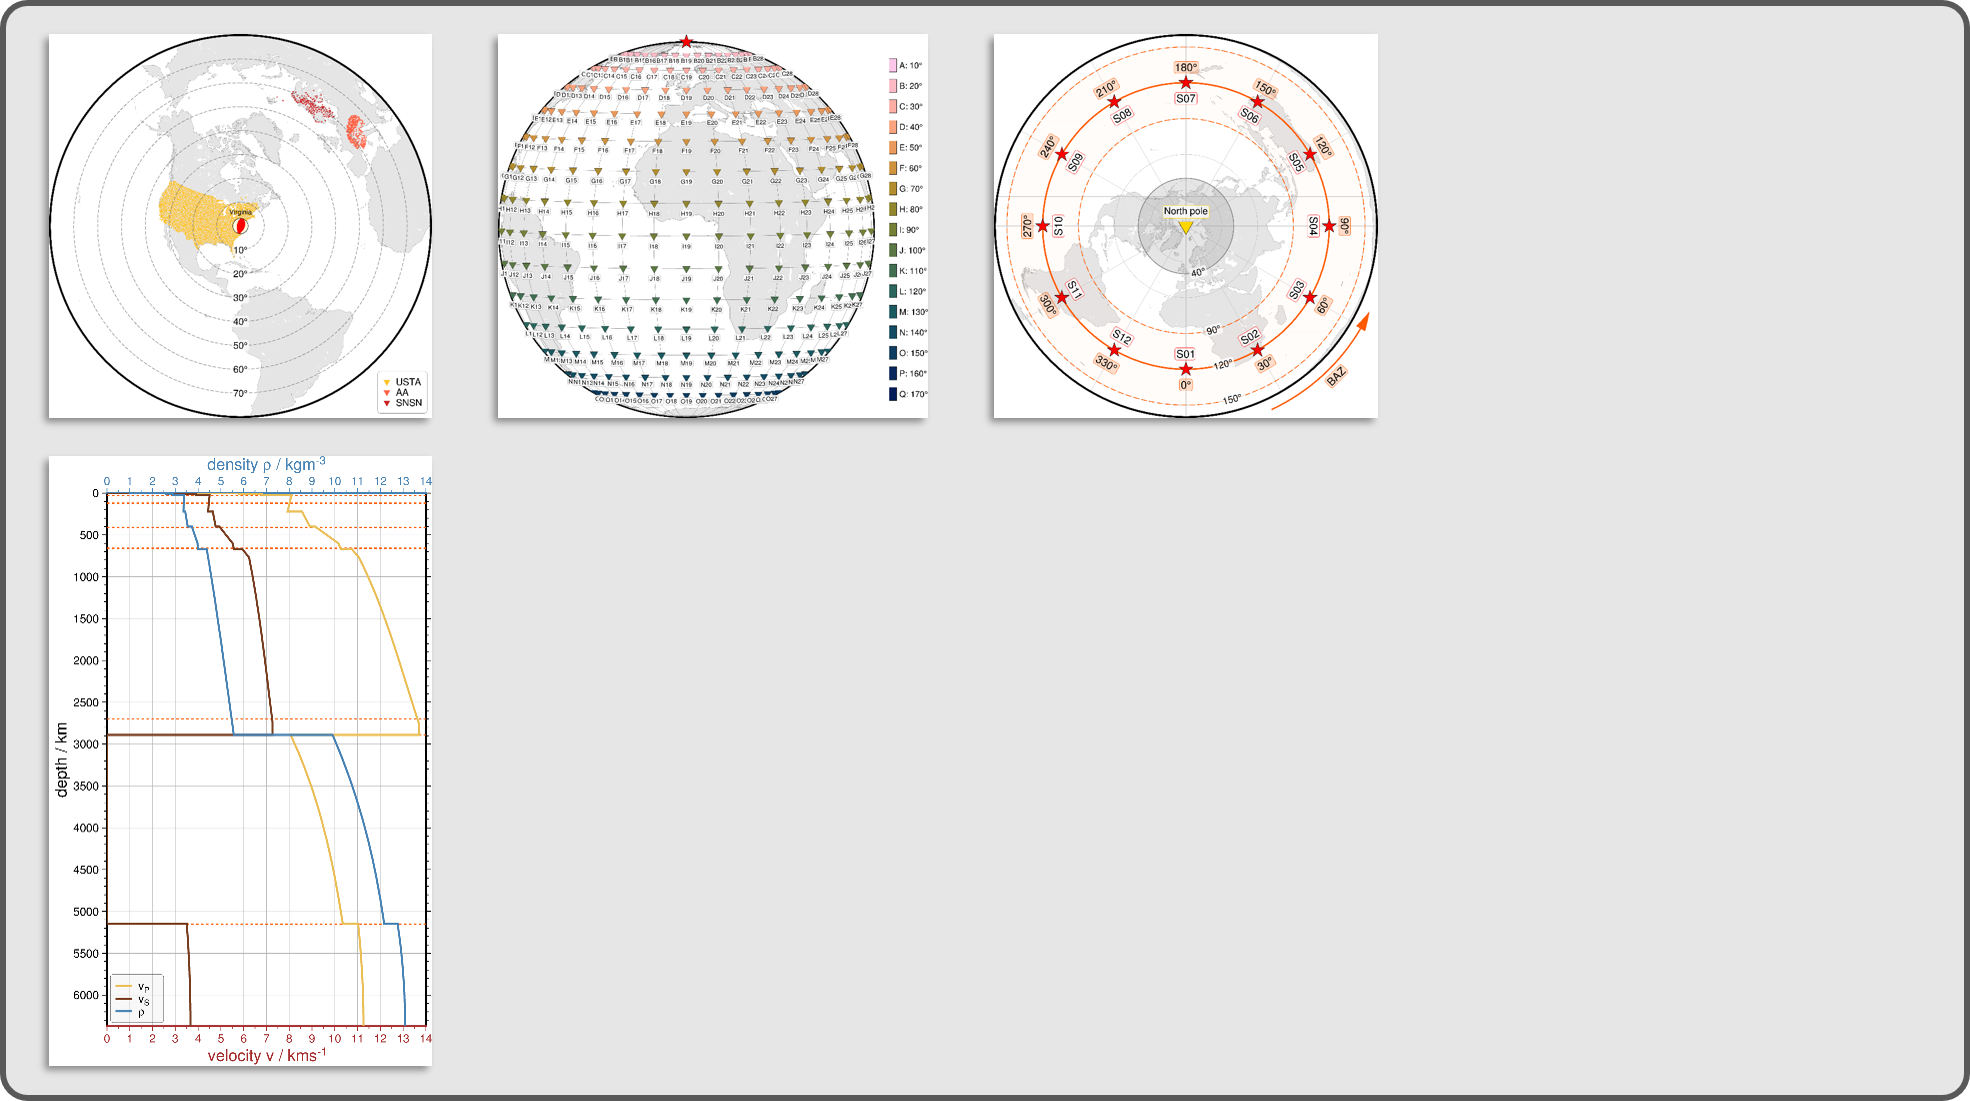
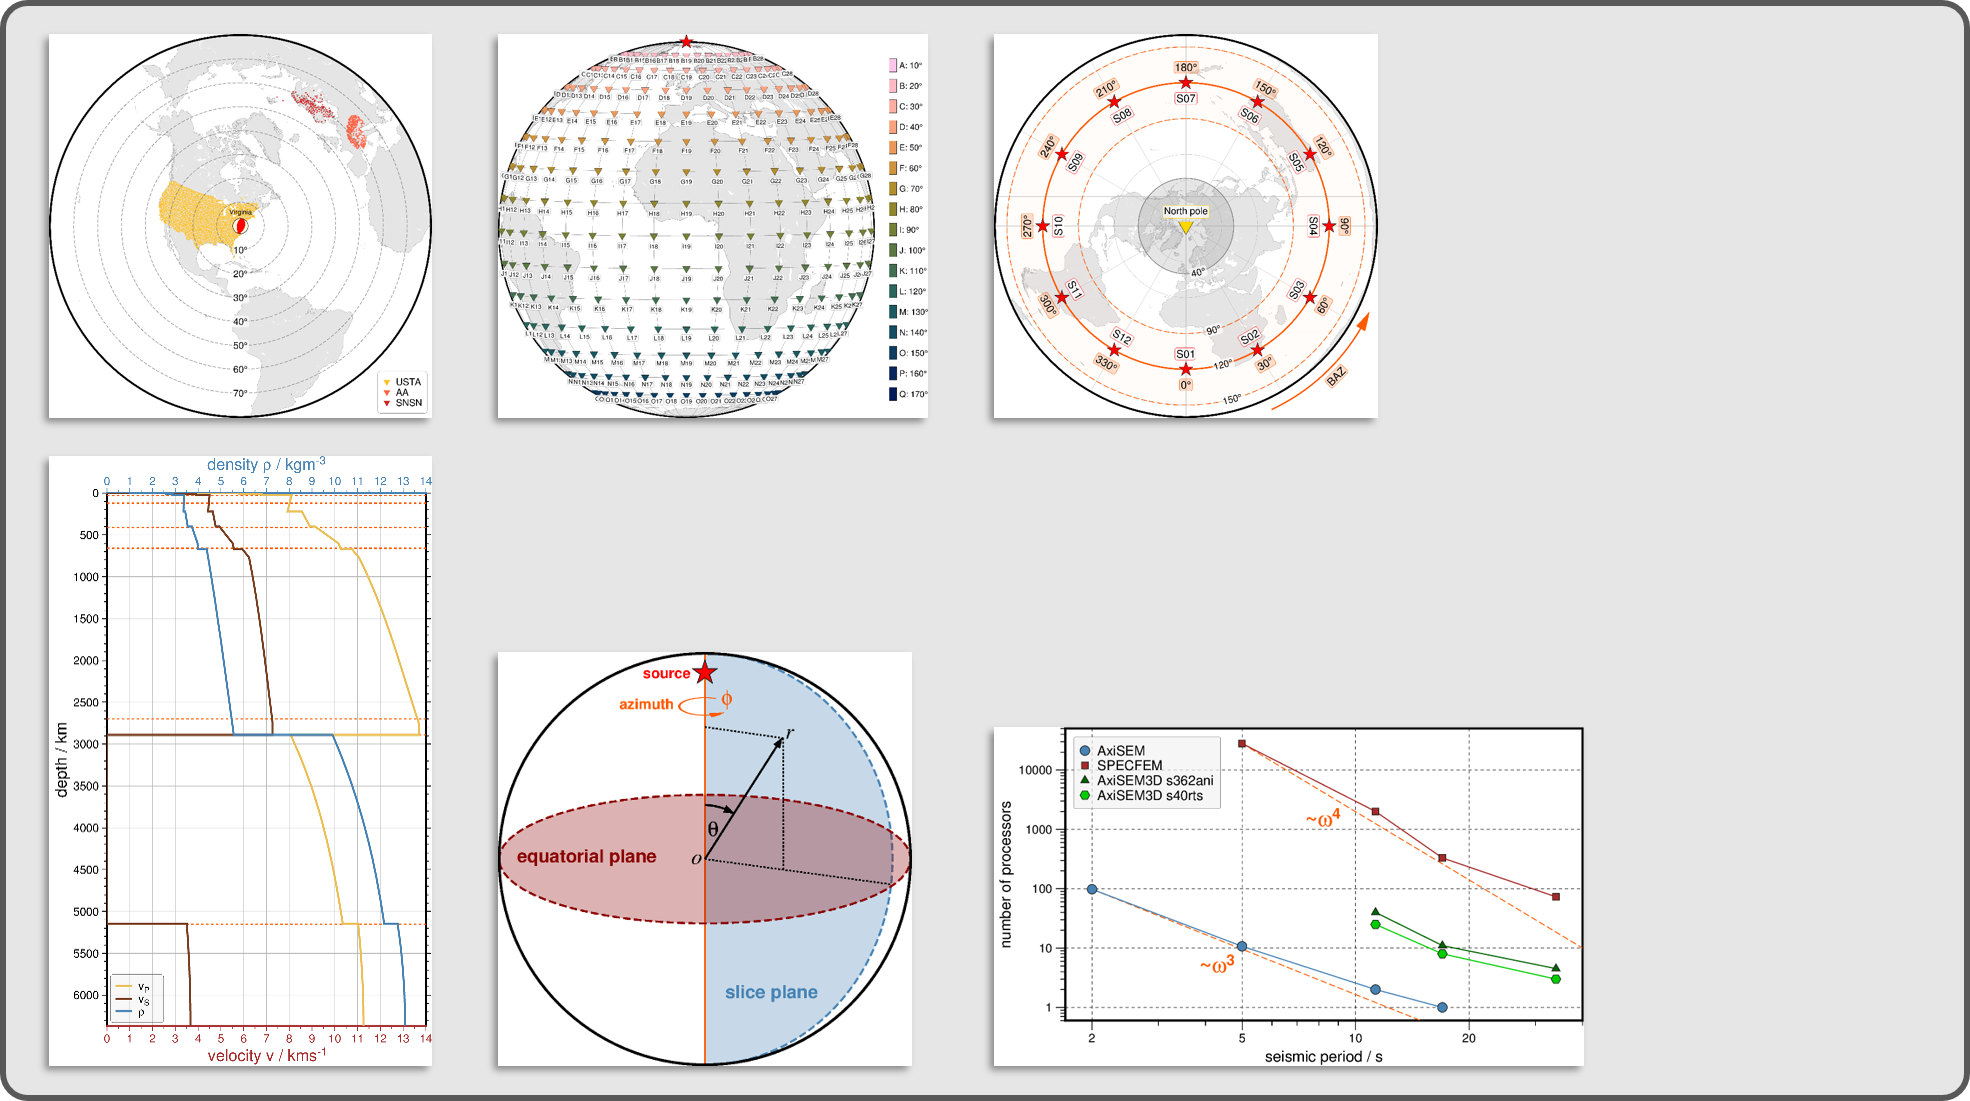
010_axisem: Add first version of figs 1 and 16 from Leng et al. (2016) (#72)

Changed region(s): [[0.4954, 0.6485, 0.8051, 0.9882], [0.2477, 0.5867, 0.4645, 0.9882]]

diff --git a/010_axisem/05_plots_axisem3d_LND2016/axisem3d_LND2016_fig16.py b/010_axisem/05_plots_axisem3d_LND2016/axisem3d_LND2016_fig16.py
@@ -1,0 +1,115 @@
+# #############################################################################
+# Reproduce Figure 16 of
+# Leng K., Nissen-Meyer T., van Driel M. (2016). Efficient global wave propagation
+# adapted to 3-D structural complexity: a pseudospectral/spectral-element approach.
+# Geophysical Journal International, 207(3), 1700–1721.
+# https://doi.org/10.1093/gji/ggw363.
+# -----------------------------------------------------------------------------
+# History
+# - Created: 2025/05/07
+# -----------------------------------------------------------------------------
+# Versions
+# - PyGMT v0.11.0 - v0.16.0 -> https://www.pygmt.org/v0.16.0/ | https://www.pygmt.org/
+# - GMT 6.4.0 - 6.5.0 -> https://www.generic-mapping-tools.org/
+# -----------------------------------------------------------------------------
+# Contact
+# - Author: Yvonne Fröhlich
+# - ORCID: https://orcid.org/0000-0002-8566-0619
+# - GitHub: https://github.com/yvonnefroehlich/gmt-pygmt-plotting
+# #############################################################################
+
+
+import pygmt
+
+
+# %%
+# -----------------------------------------------------------------------------
+# General stuff
+# -----------------------------------------------------------------------------
+path_out = "02_out_figs"
+
+size_ratio = 4.4 / 7.8
+width = 12
+
+size = "0.225c"
+pen = "0.3p,gray10"
+color_highlight = "255/90/0"  # -> orange | URG paper
+box_standard = "+ggray95@30+p0.1p,gray50+r1p"
+args_leg = {"x":0 , "y":0, "pen":pen}
+
+color_axisem = "steelblue"
+color_specfem = "brown"
+color_s362ani = "darkgreen"
+color_s40rts = "green3"
+
+symbol_axisem = "c"
+symbol_specfem = "s"
+symbol_s362ani = "t"
+symbol_s40rts = "h"
+
+
+# %%
+# -----------------------------------------------------------------------------
+# Read data values from plot
+# -----------------------------------------------------------------------------
+t_axisem = [2, 5, 11.3, 17]
+t_specfem = [5, 11.3, 17, 34]
+t_s362ani = [11.3, 17, 34]
+t_s40rts = [11.3, 17, 34]
+
+p_axisem = [98, 10.7, 2, 1]
+p_specfem = [28000, 2000, 330, 73]
+p_s362ani = [40, 11, 4.5]
+p_s40rts = [25, 8, 3]
+
+
+# %%
+# -----------------------------------------------------------------------------
+# Make plot
+# -----------------------------------------------------------------------------
+fig = pygmt.Figure()
+pygmt.config(MAP_GRID_PEN_PRIMARY="0.1p,gray10,2_2")
+
+with pygmt.config(
+    FONT="10p",
+    FONT_ANNOT_PRIMARY="8p",
+    MAP_GRID_PEN_PRIMARY="0.1p,gray10,2_2",
+    MAP_TICK_LENGTH_PRIMARY="6p",
+):
+    fig.basemap(
+        region=[1.7, 40, 0.6, 50000],
+        projection=f"X{width}cl/{width * size_ratio}cl",
+        frame=["WrSt", "xa2f3g2+lseismic period / s", "ya1f3g+lnumber of processors"],
+    )
+
+# Plot decay lines and text
+fig.plot(x=[2, 16], y=[98, 0.5], pen=f"0.5p,{color_highlight},4_2")
+fig.plot(x=[5, 40], y=[28000, 10], pen=f"0.5p,{color_highlight},4_2")
+fig.text(x=4.3, y=5.5, text="~@~w@~@+3@+", font=f"14p,Helvetica-Bold,{color_highlight}")
+fig.text(x=8.2, y=1600, text="~@~w@~@+4@+", font=f"14p,Helvetica-Bold,{color_highlight}")
+
+# Plot data points as lines
+fig.plot(x=t_axisem, y=p_axisem, pen=f"0.6p,{color_axisem},")
+fig.plot(x=t_specfem, y=p_specfem, pen=f"0.6p,{color_specfem}")
+fig.plot(x=t_s362ani, y=p_s362ani, pen=f"0.6p,{color_s362ani}")
+fig.plot(x=t_s40rts, y=p_s40rts, pen=f"0.6p,{color_s40rts}")
+
+# Plot data points as symbols
+fig.plot(x=t_axisem, y=p_axisem, fill=color_axisem, style=f"{symbol_axisem}{size}", pen=pen)
+fig.plot(x=t_specfem, y=p_specfem, fill=color_specfem, style=f"{symbol_specfem}{size}", pen=pen)
+fig.plot(x=t_s362ani, y=p_s362ani, fill=color_s362ani, style=f"{symbol_s362ani}{size}", pen=pen)
+fig.plot(x=t_s40rts, y=p_s40rts, fill=color_s40rts, style=f"{symbol_s40rts}{size}", pen=pen)
+
+# Create legend
+fig.plot(fill=color_axisem, style=f"{symbol_axisem}{size}", label="AxiSEM", **args_leg)
+fig.plot(fill=color_specfem, style=f"{symbol_specfem}{size}", label="SPECFEM", **args_leg)
+fig.plot(fill=color_s362ani, style=f"{symbol_s362ani}{size}", label="AxiSEM3D s362ani", **args_leg)
+fig.plot(fill=color_s40rts, style=f"{symbol_s40rts}{size}", label="AxiSEM3D s40rts", **args_leg)
+fig.legend(position="jTL+w3.4c+o0.2c", box=box_standard)
+
+# Save and show figure
+fig.show()
+fig_name = "axisem3d_LND2016_fig16"
+# for ext in ["png"]: #, "pdf", "eps"]:
+#     fig.savefig(fname = f"{path_out}/{fig_name}.{ext}")
+print(fig_name)

diff --git a/010_axisem/05_plots_axisem3d_LND2016/axisem3d_LND2016_fig1.py b/010_axisem/05_plots_axisem3d_LND2016/axisem3d_LND2016_fig1.py
@@ -1,0 +1,80 @@
+# #############################################################################
+# Reproduce Figure 1 of
+# Leng K., Nissen-Meyer T., van Driel M. (2016). Efficient global wave propagation
+# adapted to 3-D structural complexity: a pseudospectral/spectral-element approach.
+# Geophysical Journal International, 207(3), 1700–1721.
+# https://doi.org/10.1093/gji/ggw363.
+# -----------------------------------------------------------------------------
+# History
+# - Created: 2025/05/07
+# -----------------------------------------------------------------------------
+# Versions
+# - PyGMT v0.11.0 - v0.16.0 -> https://www.pygmt.org/v0.16.0/ | https://www.pygmt.org/
+# - GMT 6.4.0 - 6.5.0 -> https://www.generic-mapping-tools.org/
+# -----------------------------------------------------------------------------
+# Contact
+# - Author: Yvonne Fröhlich
+# - ORCID: https://orcid.org/0000-0002-8566-0619
+# - GitHub: https://github.com/yvonnefroehlich/gmt-pygmt-plotting
+# #############################################################################
+
+
+import pygmt
+
+
+# %%
+# -----------------------------------------------------------------------------
+# General stuff
+# -----------------------------------------------------------------------------
+path_out = "02_out_figs"
+
+color_highlight = "255/90/0"  # -> orange | URG
+color_source = "red"
+color_slice = "steelblue"
+color_equ = "darkred"
+
+width = 8
+
+
+# %%
+# -----------------------------------------------------------------------------
+# Make plot
+# -----------------------------------------------------------------------------
+fig = pygmt.Figure()
+pygmt.config(MAP_GRID_PEN_PRIMARY="0.1p,gray80")
+fig.basemap(region="g", projection=f"G0/0/{width}c", frame=0)
+
+fig.plot(x=0, y=0, style=f"e90/{width}/7.3", fill=f"{color_slice}@70", pen=f"1p,{color_slice},4_2")
+fig.plot(x=0, y=0, style=f"w{width}/90/-90", fill="white")
+fig.plot(x=[0, 0], y=[-89, 89], pen=f"1p,{color_highlight}")
+fig.plot(x=0, y=0, style=f"e0/{width}/2.5", fill=f"{color_equ}@70", pen=f"1p,{color_equ},4_2")
+
+fig.plot(x=0, y=65, style="a0.5c", fill="red", pen="0.3p,gray10")
+
+fig.plot(data=[[0, 0, 1.05, 57.5, 90]], style="m0.2c+b+a40+h0+gblack", pen="1p,black")
+fig.plot(x=0, y=0, style="v0.2c+e+a40+h0+gblack", pen="1p,black", direction=[57.5, 2.8])
+
+fig.plot(x=[0, 65], y=[0, -7], pen="0.8p,black,1_1")
+fig.plot(x=[0, 28], y=[40, 36], pen="0.8p,black,1_1", straight_line=True)
+fig.plot(x=[28, 22.5], y=[36, -3], pen="0.8p,black,1_1", straight_line=True)
+
+fig.text(x=-25, y=64, text="source", font=f"8p,Helvetica-Bold,{color_source}")
+fig.text(x=25, y=-40, text="slice plane", font=f"10p,Helvetica-Bold,{color_slice}")
+fig.text(x=-35, y=1, text="equatorial plane", font=f"10p,Helvetica-Bold,{color_equ}")
+fig.text(x=-25.5, y=49, text="azimuth", font=f"8p,Helvetica-Bold,{color_highlight}")
+
+fig.text(x=-2.3, y=0, text="o", font="12p,6")
+fig.text(x=31.23, y=37.5, text="r", font="12p,6")
+fig.text(x=2.35, y=8.5, text="@~q@~", font="12p,6")
+fig.text(x=10, y=52, text="@~f@~", font=f"12p,6,{color_highlight}")
+
+fig.basemap(frame=0)
+
+fig.shift_origin(yshift="5.6c")
+fig.plot(data=[[0, 0, 0.5, -295, -43]], style=f"m0.3c+e+a40+h0+g{color_highlight}", pen=f"1p,{color_highlight}", perspective=[180, 20], no_clip=True)
+
+fig.show()
+fig_name = "axisem3d_LND2016_fig1"
+# for ext in ["png"]: #, "pdf", "eps"]:
+#     fig.savefig(fname = f"{path_out}/{fig_name}.{ext}")
+print(fig_name)

diff --git a/README.md b/README.md
@@ -21,7 +21,7 @@ _Please note_: Scripts or notebooks are available up on acceptance of the relate
 | **[007_magnetic_field](https://github.com/yvonnefroehlich/gmt-pygmt-plotting/tree/main/007_magnetic_field)** | <img src="https://github.com/yvonnefroehlich/gmt-pygmt-plotting/raw/main/_images/github_maps_readme_007magnetic.png" width="250"> | `gufm1` | [DGG DeepDyn poster](https://doi.org/10.5281/zenodo.10927349) |
 | **[008_XXX_XXX]()** | _Up coming_ |  |  |
 | **[009_deepdyn](https://github.com/yvonnefroehlich/gmt-pygmt-plotting/tree/main/009_deepdyn)** | <img src="https://github.com/yvonnefroehlich/gmt-pygmt-plotting/raw/main/_images/github_maps_readme_009deepdyn.png" width="250"> | Maps related to the DeepDyn project | [SEDI DeepDyn poster](https://doi.org/10.5281/zenodo.12658821) |
-| **[010_axisem](https://github.com/yvonnefroehlich/gmt-pygmt-plotting/tree/main/010_axisem)** | <img src="https://github.com/yvonnefroehlich/gmt-pygmt-plotting/raw/main/_images/github_maps_readme_010axisem.png" width="250"> | Maps related to AxiSEM3D | [AGU URG talk](http://dx.doi.org/10.5281/zenodo.14510993) |
+| **[010_axisem](https://github.com/yvonnefroehlich/gmt-pygmt-plotting/tree/main/010_axisem)** | <img src="https://github.com/yvonnefroehlich/gmt-pygmt-plotting/raw/main/_images/github_maps_readme_010axisem.png" width="250"> | Maps and visualizations related to AxiSEM3D | [AGU URG talk](http://dx.doi.org/10.5281/zenodo.14510993) |
 | **[011_agu_FTLJG_2024](https://github.com/yvonnefroehlich/gmt-pygmt-plotting/tree/main/011_agu_FTLJG_2024)** | <img src="https://github.com/yvonnefroehlich/gmt-pygmt-plotting/raw/main/_images/github_maps_readme_011pygmt.png" width="250"> | Plots related to PyGMT = GMT + Python & Scientific Python Ecosystem | [AGU PyGMT talk](https://doi.org/10.6084/m9.figshare.28049495) |
 
 

diff --git a/010_axisem/README.md b/010_axisem/README.md
@@ -2,11 +2,12 @@
 
 ## Content
 
-_Recommended versions_: PyGMT v0.14.0, GMT 6.5.0
+_Recommended versions_: PyGMT v0.14.0 - v0.16.0, GMT 6.5.0
 
 - **[01_setup_virginia_arrays](https://github.com/yvonnefroehlich/GMT_PyGMT_plotting/tree/main/010_axisem/01_setup_virginia_arrays)**
 - **[02_setup_northpole_source](https://github.com/yvonnefroehlich/GMT_PyGMT_plotting/tree/main/010_axisem/02_setup_northpole_source)**
 - **[03_setup_center_station](https://github.com/yvonnefroehlich/GMT_PyGMT_plotting/tree/main/010_axisem/03_setup_center_station)**
 - **[04_earth_model_prem](https://github.com/yvonnefroehlich/GMT_PyGMT_plotting/tree/main/010_axisem/04_earth_model_station)**
+- **[05_plots_axisem3d_LND2016](https://github.com/yvonnefroehlich/GMT_PyGMT_plotting/tree/main/010_axisem/05_plots_axisem3d_LND2016)**
 
 ![](https://github.com/yvonnefroehlich/gmt-pygmt-plotting/raw/main/_images/github_maps_readme_010axisem.png)
